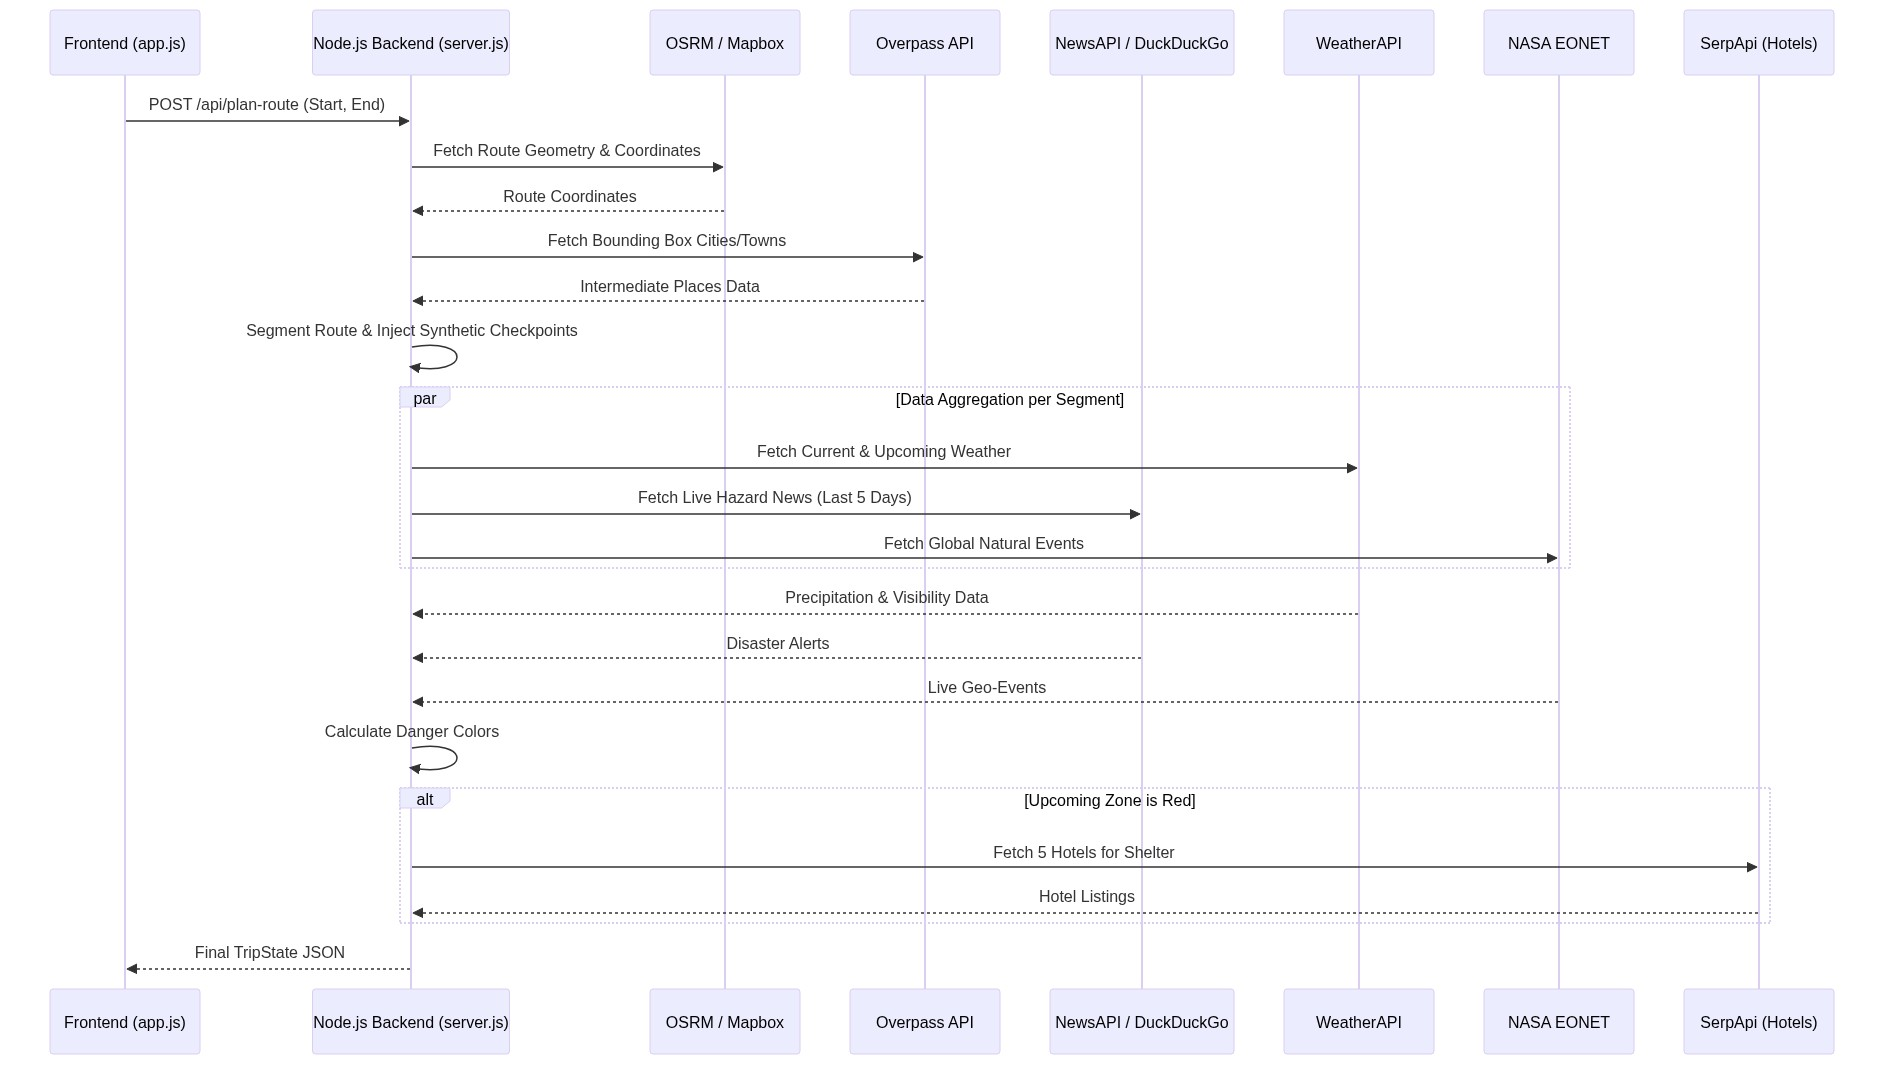
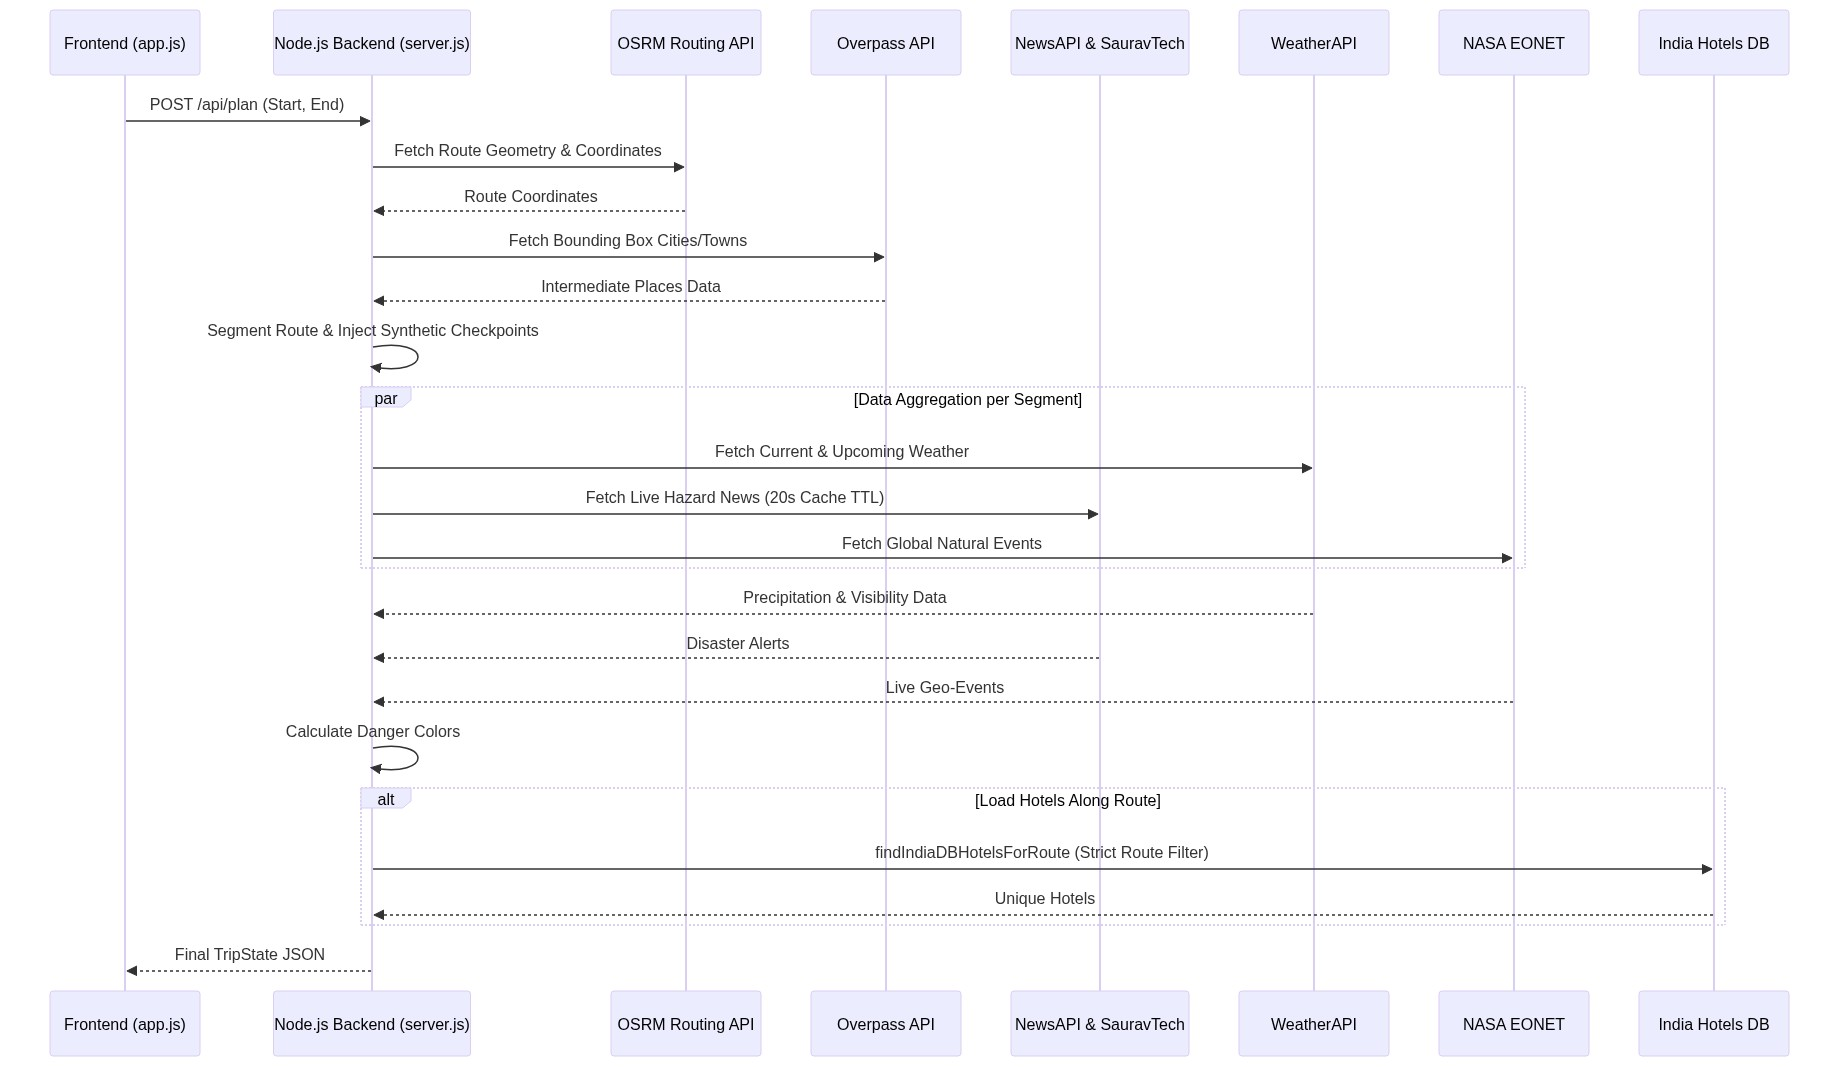
Update system architecture diagrams, flow charts, and README to reflect OSRM/Overpass segmentation, India Hotels DB integration, and AbortController stop search

diff --git a/generate_diagrams.js b/generate_diagrams.js
@@ -7,14 +7,14 @@ const diagrams = {
 sequenceDiagram
     participant Client as Frontend (app.js)
     participant Server as Node.js Backend (server.js)
-    participant OSRM as OSRM / Mapbox
+    participant OSRM as OSRM Routing API
     participant Overpass as Overpass API
-    participant News as NewsAPI / DuckDuckGo
+    participant News as NewsAPI & SauravTech
     participant Weather as WeatherAPI
     participant NASA as NASA EONET
-    participant Serp as SerpApi (Hotels)
+    participant HotelsDB as India Hotels DB
     
-    Client->>Server: POST /api/plan-route (Start, End)
+    Client->>Server: POST /api/plan (Start, End)
     Server->>OSRM: Fetch Route Geometry & Coordinates
     OSRM-->>Server: Route Coordinates
     Server->>Overpass: Fetch Bounding Box Cities/Towns
@@ -23,7 +23,7 @@ sequenceDiagram
     
     par Data Aggregation per Segment
         Server->>Weather: Fetch Current & Upcoming Weather
-        Server->>News: Fetch Live Hazard News (Last 5 Days)
+        Server->>News: Fetch Live Hazard News (20s Cache TTL)
         Server->>NASA: Fetch Global Natural Events
     end
     
@@ -33,9 +33,9 @@ sequenceDiagram
     
     Server->>Server: Calculate Danger Colors
     
-    alt Upcoming Zone is Red
-        Server->>Serp: Fetch 5 Hotels for Shelter
-        Serp-->>Server: Hotel Listings
+    alt Load Hotels Along Route
+        Server->>HotelsDB: findIndiaDBHotelsForRoute (Strict Route Filter)
+        HotelsDB-->>Server: Unique Hotels
     end
     
     Server-->>Client: Final TripState JSON
@@ -44,26 +44,33 @@ sequenceDiagram
 flowchart TD
     Init[Initialize MapLibre GL] --> UIListeners[Bind UI Click Listeners]
     UIListeners --> Sub[User Submits Start/End Location]
-    Sub --> PollStart[Start 4-Second Polling: fetchTripState]
-    PollStart --> ParseJSON[Parse TripState JSON]
+    Sub --> ShowStopBtn[Show Stop Searching Button & AbortController]
+    ShowStopBtn --> PollStart[Start Polling: fetchTripState]
+    
+    PollStart --> IsAborted{User clicked<br>Stop Searching?}
+    IsAborted -- Yes --> AbortReq[Abort plan request & Reset UI]
+    IsAborted -- No --> ParseJSON[Parse TripState JSON]
     
     ParseJSON --> RenderLayers{Route Coordinates Changed?}
     RenderLayers -- Yes --> Rebuild[Rebuild Map Sources & GeoJSON]
-    RenderLayers -- No --> SyncColors[Dynamically Sync Segment Colors]
+    RenderLayers -- No --> SyncColors[Dynamically Sync Sync Segment Colors]
     
     SyncColors --> HUD[Update HUD: Speed, ETA, Weather]
     HUD --> Timeline[Render Upcoming Places Timeline]
     Timeline --> Hotels{Are there Hotels?}
     
-    Hotels -- Yes --> RenderHotels[Render Hotel Cards in Sidebar]
+    Hotels -- Yes --> RenderHotels[Render Unique Hotel Cards]
     Hotels -- No --> Wait[Wait for next poll...]
     RenderHotels --> Wait
   `,
   backend: `
 flowchart TD
-    Req([Receive Client GET /api/state]) --> CheckCache{Route in Cache?}
+    Req([Receive Client GET /api/trip-state]) --> CheckCache{Route in Cache?}
     
     CheckCache -- No --> FetchGeocode[Geocode Start & End Points]
+    FetchGeocode -->|Geocode Failed| CacheFail[Cache Failure in routeCache]
+    CacheFail --> ErrRes([Send 200 OK with Routing Failed])
+    
     FetchGeocode --> OSRM[Fetch OSRM Route Data]
     OSRM --> Overpass[Fetch Cities within Bounding Box]
     Overpass --> SegmentLogic[Segment Route: Max 50km apart]
@@ -76,7 +83,7 @@ flowchart TD
     
     subgraph Parallel API Promises
         AsyncPoll --> GetWeather[Fetch WeatherAPI]
-        AsyncPoll --> GetNews[Fetch NewsAPI]
+        AsyncPoll --> GetNews[Fetch NewsAPI & SauravTech]
         AsyncPoll --> GetNASA[Fetch NASA EONET Cache]
     end
     
@@ -85,12 +92,9 @@ flowchart TD
     GetNASA --> Assemble
     
     Assemble --> ColorEval[Evaluate Hazard Risks per Segment]
-    ColorEval --> HotelEval{Is Upcoming Place Red?}
+    ColorEval --> HotelEval[findIndiaDBHotelsForRoute: Route Cities Only]
     
-    HotelEval -- Yes --> FetchHotels[Fetch SerpApi Hotels]
-    HotelEval -- No --> BuildRes[Construct JSON]
-    FetchHotels --> BuildRes
-    
+    HotelEval --> BuildRes[Construct JSON]
     BuildRes --> Res([Send 200 OK to Client])
   `,
   hazard: `

diff --git a/README.md b/README.md
@@ -42,9 +42,9 @@ flowchart LR
         Backend -->|Query Route Coords| OSRM[OSRM Routing API]
         Backend -->|Identify Cities| Overpass[Overpass API]
         Backend -->|Fetch Weather| Weather[WeatherAPI]
-        Backend -->|Scan Live News| News[NewsAPI / DuckDuckGo]
+        Backend -->|Scan Live News| News[NewsAPI & SauravTech]
         Backend -->|Track Wildfires/Storms| NASA[NASA EONET API]
-        Backend -->|Query Emergency Stays| Serp[SerpApi Google Hotels]
+        Backend -->|Query Route Hotels| HotelsDB[India Hotels DB]
     end
     
     subgraph Evaluation["Storage & Evaluation"]
@@ -66,12 +66,14 @@ flowchart LR
 ## 🔄 Detailed Workflows
 
 ### Phase 1: Route Planning & Dynamic Segmentation
-This phase converts user input into route coordinates, queries the Overpass API for towns along the route, and slices the route into distinct segments.
+This phase geocodes destinations, fetches coordinate geometry, queries route cities, and dynamically segments paths.
 
 ```mermaid
-flowchart LR
+flowchart TD
     Input[Enter Start & End City] --> Geocode[Geocode API: Resolve Lat/Lon]
-    Geocode --> FetchRoute[OSRM API: Fetch Route Coordinates]
+    Geocode --> CheckCache{Route in Cache?}
+    CheckCache -- Yes --> UseCache[Load Cached Segments]
+    CheckCache -- No --> FetchRoute[OSRM API: Fetch Route Coordinates]
     FetchRoute --> CalculateBbox[Calculate Route Bounding Box]
     CalculateBbox --> FetchCities[Overpass API: Fetch Cities in BBox]
     FetchCities --> SpacingLogic[Filter Cities by Distance spacing]
@@ -80,6 +82,7 @@ flowchart LR
     SegmentSplit -- No --> SplitSegments[Divide Route into Segments]
     SynthWps --> SplitSegments
     SplitSegments --> AssignBoundaries[Set Segment From/To Boundaries]
+    AssignBoundaries --> UseCache
 ```
 
 ---
@@ -88,10 +91,10 @@ flowchart LR
 Every 4 seconds, the backend runs segment coordinates through this logic to determine safety colors.
 
 ```mermaid
-flowchart LR
+flowchart TD
     Segments[For Each Segment] --> FetchData[Trigger Parallel API Fetching]
     FetchData --> FetchWeather[WeatherAPI: Rain mm/hr & Temp]
-    FetchData --> FetchNews[NewsAPI: Query Segment Cities & Disasters]
+    FetchData --> FetchNews[NewsAPI & SauravTech: Scan Disaster Keywords]
     FetchData --> FetchNASA[NASA EONET: Volcanoes, Storms & Wildfires]
     
     FetchWeather --> RiskEval[Risk Assessment Engine]
@@ -115,11 +118,11 @@ flowchart LR
 When a segment is flagged as Red, the driver is warned, local hotels are fetched, and a Dijkstra visualizer computes the safest detour.
 
 ```mermaid
-flowchart LR
+flowchart TD
     ColorGraded[Color-Graded Segments] --> CheckThreat{Upcoming Segment<br>is RED or Danger?}
     
-    CheckThreat -- Yes --> TriggerShelter[Query SerpApi/Overpass: Fetch 5 Hotels]
-    TriggerShelter --> ShowHotels[Display Hotel Recommendation List]
+    CheckThreat -- Yes --> TriggerShelter[findIndiaDBHotelsForRoute: Fetch Route Hotels]
+    TriggerShelter --> ShowHotels[Display Unique Hotels List]
     
     CheckThreat -- Yes --> TriggerDijkstra[Initiate Dijkstra Pathfinding detour]
     TriggerDijkstra --> CalculateDetour[Compute Safest Alternative Path]
@@ -131,10 +134,10 @@ flowchart LR
 ---
 
 ### Phase 4: UI Lifecycle & Map State Syncing
-The frontend handles data synchronization, updating progress metrics and segment colors on the MapLibre canvas dynamically and without flickering.
+The frontend handles data synchronization, updating progress metrics, supporting "Stop Searching" (via AbortController), and repainting segment colors dynamically.
 
 ```mermaid
-flowchart LR
+flowchart TD
     APIResponse[Receive TripState JSON] --> CheckCoords{Coordinates Changed?}
     
     CheckCoords -- Yes --> RedrawRoute[Rebuild Map Sources & GeoJSON Layers]
@@ -160,7 +163,6 @@ To run the application, configure your `.env` file or environment variables with
 | :--- | :--- | :--- |
 | `WEATHER_API_KEY` | [WeatherAPI](https://www.weatherapi.com/) | Live precipitation and weather state checks |
 | `NEWS_API_KEY` | [NewsAPI](https://newsapi.org/) | Scans local news for keywords matching segment cities |
-| `SERP_API_KEY` | [SerpApi](https://serpapi.com/) | Fetches Google Hotels listings during emergency reroutes |
 
 ---
 
@@ -184,11 +186,10 @@ To run the application, configure your `.env` file or environment variables with
    ```
 
 3. **Set Up Keys**
-   Create a `.env` file in the root folder:
+   Create a `.env` file in the root folder (Note: `.env` is ignored by git to keep your keys safe):
    ```env
    WEATHER_API_KEY=your_weather_api_key
    NEWS_API_KEY=your_news_api_key
-   SERP_API_KEY=your_serp_api_key
    ```
 
 4. **Start the Application**